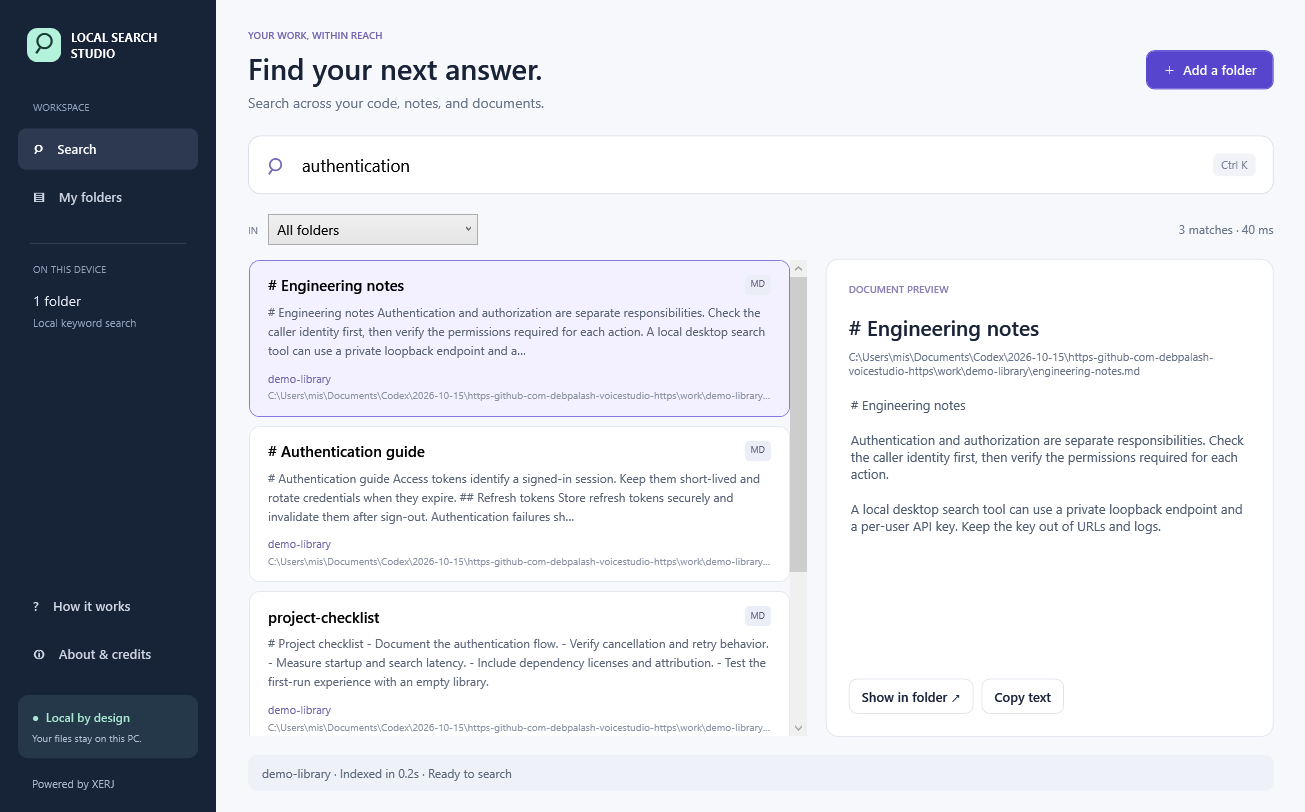
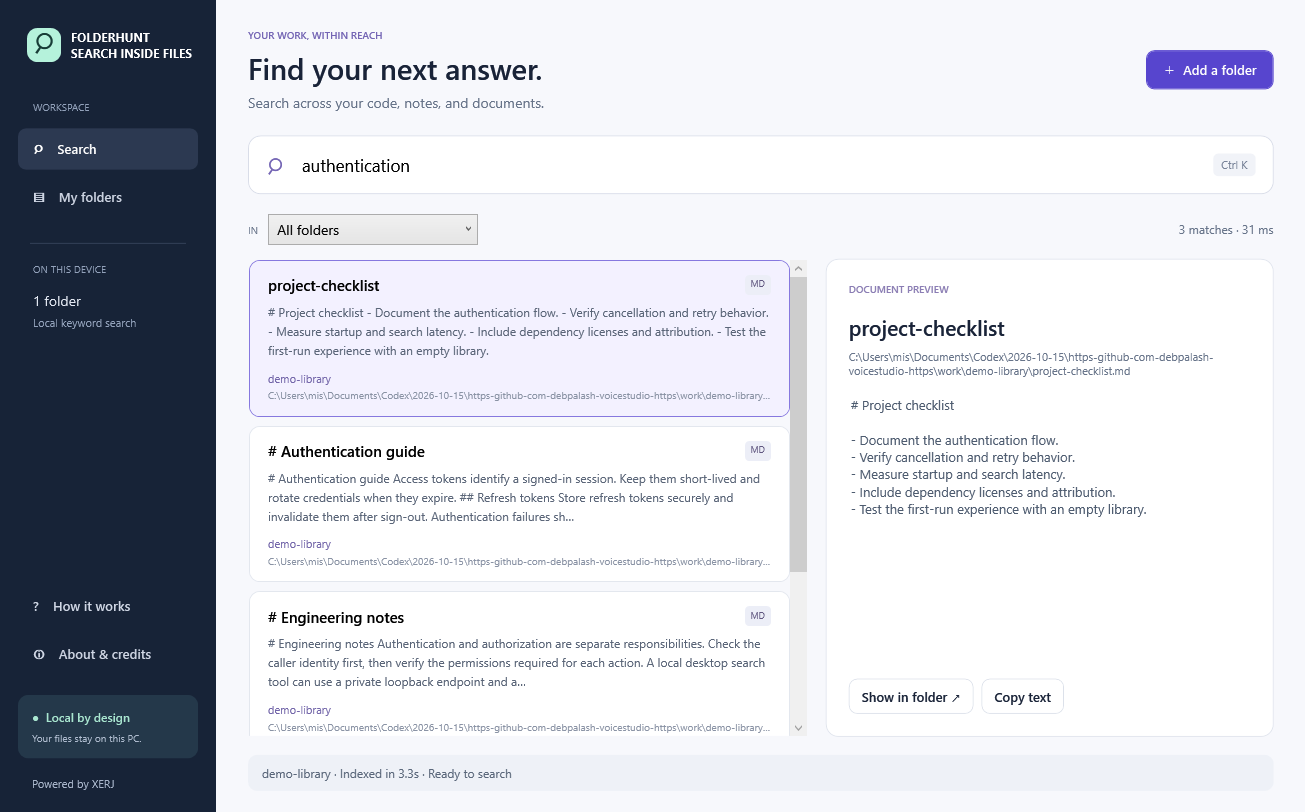
Rename the Windows app to FolderHunt
Use FolderHunt: Search Inside Files as the Store and Windows display name. Update UI branding, privacy text, listing copy and screenshot; bump the package to 1.0.1.0 while preserving identity and data paths. Verified Release publish, MakeAppx validation, and a real-app indexing/search smoke check.

diff --git a/desktop/privacy.html b/desktop/privacy.html
@@ -1,11 +1,11 @@
-<!doctype html><html lang="en"><head><meta charset="utf-8"><meta name="viewport" content="width=device-width,initial-scale=1"><title>Local Search Studio — Privacy</title><style>body{font:17px/1.65 system-ui,sans-serif;color:#192338;background:#f7f8fc;max-width:800px;margin:60px auto;padding:0 24px}a{color:#5745ce}h1{line-height:1.2}small{color:#67748a}</style></head><body>
-<p>LOCAL SEARCH STUDIO</p><h1>Your files stay on your PC.</h1><p><small>Privacy policy · Effective 15 October 2026 · Version 1.0.0</small></p>
-<p>Local Search Studio is an independent Windows desktop search application published by Adiityaaa7 and powered by the open-source XERJ engine.</p>
+<!doctype html><html lang="en"><head><meta charset="utf-8"><meta name="viewport" content="width=device-width,initial-scale=1"><title>FolderHunt — Privacy</title><style>body{font:17px/1.65 system-ui,sans-serif;color:#192338;background:#f7f8fc;max-width:800px;margin:60px auto;padding:0 24px}a{color:#5745ce}h1{line-height:1.2}small{color:#67748a}</style></head><body>
+<p>FOLDERHUNT</p><h1>Your files stay on your PC.</h1><p><small>Privacy policy · Updated 21 October 2026 · Version 1.0.1</small></p>
+<p>FolderHunt (previously Local Search Studio) is an independent Windows desktop search application published by Adiityaaa7 and powered by the open-source XERJ engine.</p>
 <h2>What the app processes</h2><p>When you choose a folder, the app reads supported files within it to create searchable indexes. The indexes may contain file paths, metadata, and copies of extracted text. Search queries and previews are processed on your computer. Indexes, folder settings, indexing journals, and a local engine authentication key are stored in the app-data location shown in How it works. A small query cache is held in memory for the current session.</p>
 <h2>No collection by the publisher</h2><p>The app does not send your files, queries, or indexes to the publisher. This edition contains no publisher analytics, advertising SDK, account sign-in, cloud reranking, or neural-model download. It communicates with its bundled engine through authenticated connections bound to 127.0.0.1 on your PC.</p>
 <h2>Your choices</h2><p>You choose which folders to index and can stop indexing. Refresh updates indexed copies after you edit or delete source files. Closing the app stops its engine and clears the in-memory query cache. To remove all saved indexes and settings, close the app and remove the app-data directory shown in How it works. This does not delete your original files. Uninstalling a portable copy alone may leave its app-data directory behind.</p>
 <h2>Local security</h2><p>App data is restricted to your Windows user account. The app does not encrypt its indexes. Anyone with access to your Windows account, administrator access, backups, or the storage device may be able to access the data. Index only content you intend to make searchable on this device.</p>
 <h2>Other services</h2><p>Microsoft Store handles application distribution and updates under Microsoft's privacy policy. Opening support or source links uses your browser and the destination site's policies. If you voluntarily post a support issue, GitHub processes the information you provide; do not include private documents or credentials in public issues.</p>
-<h2>Changes and contact</h2><p>Policy changes will be published with the Store listing. For support and privacy questions, contact the publisher through <a href="https://github.com/Adiityaa7">the publisher's GitHub profile</a>.</p>
-<p>Powered by <a href="https://github.com/xerj-org/xerj">XERJ</a>. Local Search Studio is not affiliated with or endorsed by the XERJ project.</p>
+<h2>Changes and contact</h2><p>Policy changes will be published with the Store listing. For support and privacy questions, contact the publisher through <a href="https://github.com/Adiityaa7/local-search-studio/issues">the app's support page</a>.</p>
+<p>Powered by <a href="https://github.com/xerj-org/xerj">XERJ</a>. FolderHunt is not affiliated with or endorsed by the XERJ project.</p>
 </body></html>

diff --git a/privacy.html b/privacy.html
@@ -1,11 +1,11 @@
-<!doctype html><html lang="en"><head><meta charset="utf-8"><meta name="viewport" content="width=device-width,initial-scale=1"><title>Local Search Studio — Privacy</title><style>body{font:17px/1.65 system-ui,sans-serif;color:#192338;background:#f7f8fc;max-width:800px;margin:60px auto;padding:0 24px}a{color:#5745ce}h1{line-height:1.2}small{color:#67748a}</style></head><body>
-<p>LOCAL SEARCH STUDIO</p><h1>Your files stay on your PC.</h1><p><small>Privacy policy · Effective 15 October 2026 · Version 1.0.0</small></p>
-<p>Local Search Studio is an independent Windows desktop search application published by Adiityaaa7 and powered by the open-source XERJ engine.</p>
+<!doctype html><html lang="en"><head><meta charset="utf-8"><meta name="viewport" content="width=device-width,initial-scale=1"><title>FolderHunt — Privacy</title><style>body{font:17px/1.65 system-ui,sans-serif;color:#192338;background:#f7f8fc;max-width:800px;margin:60px auto;padding:0 24px}a{color:#5745ce}h1{line-height:1.2}small{color:#67748a}</style></head><body>
+<p>FOLDERHUNT</p><h1>Your files stay on your PC.</h1><p><small>Privacy policy · Updated 21 October 2026 · Version 1.0.1</small></p>
+<p>FolderHunt (previously Local Search Studio) is an independent Windows desktop search application published by Adiityaaa7 and powered by the open-source XERJ engine.</p>
 <h2>What the app processes</h2><p>When you choose a folder, the app reads supported files within it to create searchable indexes. The indexes may contain file paths, metadata, and copies of extracted text. Search queries and previews are processed on your computer. Indexes, folder settings, indexing journals, and a local engine authentication key are stored in the app-data location shown in How it works. A small query cache is held in memory for the current session.</p>
 <h2>No collection by the publisher</h2><p>The app does not send your files, queries, or indexes to the publisher. This edition contains no publisher analytics, advertising SDK, account sign-in, cloud reranking, or neural-model download. It communicates with its bundled engine through authenticated connections bound to 127.0.0.1 on your PC.</p>
 <h2>Your choices</h2><p>You choose which folders to index and can stop indexing. Refresh updates indexed copies after you edit or delete source files. Closing the app stops its engine and clears the in-memory query cache. To remove all saved indexes and settings, close the app and remove the app-data directory shown in How it works. This does not delete your original files. Uninstalling a portable copy alone may leave its app-data directory behind.</p>
 <h2>Local security</h2><p>App data is restricted to your Windows user account. The app does not encrypt its indexes. Anyone with access to your Windows account, administrator access, backups, or the storage device may be able to access the data. Index only content you intend to make searchable on this device.</p>
 <h2>Other services</h2><p>Microsoft Store handles application distribution and updates under Microsoft's privacy policy. Opening support or source links uses your browser and the destination site's policies. If you voluntarily post a support issue, GitHub processes the information you provide; do not include private documents or credentials in public issues.</p>
-<h2>Changes and contact</h2><p>Policy changes will be published with the Store listing. For support and privacy questions, contact the publisher through <a href="https://github.com/Adiityaa7">the publisher's GitHub profile</a>.</p>
-<p>Powered by <a href="https://github.com/xerj-org/xerj">XERJ</a>. Local Search Studio is not affiliated with or endorsed by the XERJ project.</p>
+<h2>Changes and contact</h2><p>Policy changes will be published with the Store listing. For support and privacy questions, contact the publisher through <a href="https://github.com/Adiityaa7/local-search-studio/issues">the app's support page</a>.</p>
+<p>Powered by <a href="https://github.com/xerj-org/xerj">XERJ</a>. FolderHunt is not affiliated with or endorsed by the XERJ project.</p>
 </body></html>

diff --git a/desktop/LocalSearchStudio/MainWindow.xaml b/desktop/LocalSearchStudio/MainWindow.xaml
@@ -1,10 +1,10 @@
-<Window x:Class="LocalSearchStudio.MainWindow" xmlns="http://schemas.microsoft.com/winfx/2006/xaml/presentation" xmlns:x="http://schemas.microsoft.com/winfx/2006/xaml" Title="Local Search Studio" Width="1320" Height="850" MinWidth="1040" MinHeight="680" WindowStartupLocation="CenterScreen" Background="#F7F8FC" FontFamily="Segoe UI" FontSize="14" Loaded="WindowLoaded" Closing="WindowClosing" PreviewKeyDown="WindowKeyDown" AllowDrop="True" Drop="FolderDrop">
+<Window x:Class="LocalSearchStudio.MainWindow" xmlns="http://schemas.microsoft.com/winfx/2006/xaml/presentation" xmlns:x="http://schemas.microsoft.com/winfx/2006/xaml" Title="FolderHunt" Width="1320" Height="850" MinWidth="1040" MinHeight="680" WindowStartupLocation="CenterScreen" Background="#F7F8FC" FontFamily="Segoe UI" FontSize="14" Loaded="WindowLoaded" Closing="WindowClosing" PreviewKeyDown="WindowKeyDown" AllowDrop="True" Drop="FolderDrop">
  <Grid Background="#F7F8FC" TextElement.Foreground="#192338">
   <Grid.ColumnDefinitions><ColumnDefinition Width="216"/><ColumnDefinition Width="*"/></Grid.ColumnDefinitions>
   <Border Background="#172337">
    <DockPanel Margin="18,28,18,22">
     <StackPanel DockPanel.Dock="Top">
-     <StackPanel Orientation="Horizontal" Margin="9,0,0,30"><Border Background="#B5F2DB" Width="34" Height="34" CornerRadius="10"><TextBlock Text="⌕" FontSize="30" Foreground="#173C36" HorizontalAlignment="Center" Margin="0,-6,0,0"/></Border><TextBlock Text="LOCAL SEARCH&#10;STUDIO" FontWeight="Bold" FontSize="12" Foreground="White" Margin="10,0,0,0" VerticalAlignment="Center"/></StackPanel>
+     <StackPanel Orientation="Horizontal" Margin="9,0,0,30"><Border Background="#B5F2DB" Width="34" Height="34" CornerRadius="10"><TextBlock Text="⌕" FontSize="30" Foreground="#173C36" HorizontalAlignment="Center" Margin="0,-6,0,0"/></Border><TextBlock Text="FOLDERHUNT&#10;SEARCH INSIDE FILES" FontWeight="Bold" FontSize="12" Foreground="White" Margin="10,0,0,0" VerticalAlignment="Center"/></StackPanel>
      <TextBlock Text="WORKSPACE" FontSize="10" Foreground="#92A1BA" Margin="15,8,0,12"/>
      <Button x:Name="SearchNav" Content="⌕    Search" Style="{StaticResource Nav}" Background="#2C3951" Foreground="White" Click="ShowSearch"/>
      <Button x:Name="LibraryNav" Content="▤    My folders" Style="{StaticResource Nav}" Click="ShowLibraries"/>

diff --git a/desktop/LocalSearchStudio/StudioCore.cs b/desktop/LocalSearchStudio/StudioCore.cs
@@ -1,4 +1,4 @@
-// Local Search Studio desktop integration, added 2026-10-15. Apache-2.0.
+// FolderHunt desktop integration, added 2026-10-15. Apache-2.0.
 // XERJ engine remains unmodified; attribution and license are in ../notices.
 using System.Diagnostics;
 using System.IO;
@@ -113,7 +113,7 @@ public sealed class EngineService : IAsyncDisposable
     {
         if (Running) return;
         if(shutdown.IsCancellationRequested) { shutdown.Dispose(); shutdown = new(); }
-        if (!File.Exists(executable)) throw new FileNotFoundException("The bundled XERJ engine is missing. Reinstall Local Search Studio.");
+        if (!File.Exists(executable)) throw new FileNotFoundException("The bundled XERJ engine is missing. Reinstall FolderHunt.");
         if (!System.Runtime.Intrinsics.X86.Avx2.IsSupported) throw new PlatformNotSupportedException("This XERJ build requires a 64-bit Intel or AMD processor with AVX2 support (typically 2013 or newer).");
         Directory.CreateDirectory(root);
         // User-only state, including engine API key; never placed in a URL or command line.
@@ -122,7 +122,7 @@ public sealed class EngineService : IAsyncDisposable
         security.AddAccessRule(new FileSystemAccessRule(WindowsIdentity.GetCurrent().User!, FileSystemRights.FullControl, InheritanceFlags.ContainerInherit | InheritanceFlags.ObjectInherit, PropagationFlags.None, AccessControlType.Allow));
         new DirectoryInfo(root).SetAccessControl(security);
         try { ownership = new FileStream(System.IO.Path.Combine(root, "engine.lock"), FileMode.OpenOrCreate, FileAccess.ReadWrite, FileShare.None); }
-        catch (IOException) { throw new IOException("Local Search Studio is already open. Switch to its existing window."); }
+        catch (IOException) { throw new IOException("FolderHunt is already open. Switch to its existing window."); }
         try
         {
             // XERJ's incremental journal binds to its endpoint. Keep assigned ports
@@ -138,7 +138,7 @@ public sealed class EngineService : IAsyncDisposable
                 selected = ports.Select(p => ((IPEndPoint)p.LocalEndpoint).Port).ToArray();
                 if(saved is null) File.WriteAllText(portFile,JsonSerializer.Serialize(selected));
             }
-            catch(SocketException ex) { throw new IOException("Another program is using this app’s saved local port. Close other copies of Local Search Studio, then retry.",ex); }
+            catch(SocketException ex) { throw new IOException("Another program is using this app’s saved local port. Close other copies of FolderHunt, then retry.",ex); }
             finally { foreach(var listener in ports)listener.Stop(); }
             var data = System.IO.Path.Combine(root, "data").Replace('\\', '/');
             var config = $"[server]\nbind_address = \"127.0.0.1\"\nes_compat_port = {selected[0]}\nrest_port = {selected[1]}\ngrpc_port = {selected[2]}\ndata_dir = {JsonSerializer.Serialize(data)}\n[auth]\nenabled = true\n[tls]\nenabled = false\n[rerank]\nenabled = false\n";

diff --git a/desktop/LocalSearchStudio/MainWindow.xaml.cs b/desktop/LocalSearchStudio/MainWindow.xaml.cs
@@ -215,7 +215,7 @@ public partial class MainWindow : Window
     private void ShowAbout(object sender, RoutedEventArgs e)
     {
         var dir = System.IO.Path.Combine(AppContext.BaseDirectory, "notices");
-        ShowText("About & credits", "Local Search Studio 1.0.0\nIndependent desktop edition powered by XERJ 1.0.0-rc.95.\nNot affiliated with or endorsed by the XERJ project.\n\nXERJ\nCopyright 2026 The XERJ Authors\nThis product includes software developed by the XERJ project (https://xerj.org).\nSource: https://github.com/xerj-org/xerj\nEngine release: v1.0.0-rc.95 (unmodified).\n\nDesktop additions: native Windows interface, authenticated local-engine management, folder library, incremental keyword indexing, cancellable search, bounded previews, and session query caching. Added 15 October 2026.\n\nLicensed under Apache License 2.0.\nThe full license, upstream NOTICE, and dependency notices are included below and in the installed notices folder.\n\n" + (File.Exists(System.IO.Path.Combine(dir,"XERJ-LICENSE.txt")) ? File.ReadAllText(System.IO.Path.Combine(dir,"XERJ-LICENSE.txt")) : "License file missing"), dir);
+        ShowText("About & credits", "FolderHunt 1.0.1\nIndependent desktop edition powered by XERJ 1.0.0-rc.95.\nNot affiliated with or endorsed by the XERJ project.\n\nXERJ\nCopyright 2026 The XERJ Authors\nThis product includes software developed by the XERJ project (https://xerj.org).\nSource: https://github.com/xerj-org/xerj\nEngine release: v1.0.0-rc.95 (unmodified).\n\nDesktop additions: native Windows interface, authenticated local-engine management, folder library, incremental keyword indexing, cancellable search, bounded previews, and session query caching. Added 15 October 2026.\n\nLicensed under Apache License 2.0.\nThe full license, upstream NOTICE, and dependency notices are included below and in the installed notices folder.\n\n" + (File.Exists(System.IO.Path.Combine(dir,"XERJ-LICENSE.txt")) ? File.ReadAllText(System.IO.Path.Combine(dir,"XERJ-LICENSE.txt")) : "License file missing"), dir);
     }
     private void ShowText(string title, string text, string? licensesFolder = null)
     {

diff --git a/desktop/LocalSearchStudio/App.xaml.cs b/desktop/LocalSearchStudio/App.xaml.cs
@@ -12,8 +12,8 @@ public partial class App : Application
         if(test >= 0 && test + 1 < e.Args.Length) root = System.IO.Path.GetFullPath(e.Args[test + 1]);
         var name = "Local\\LocalSearchStudio-" + Convert.ToHexString(System.Security.Cryptography.SHA256.HashData(System.Text.Encoding.UTF8.GetBytes(root)))[..20];
         instance = new Mutex(true, name, out var created);
-        if(!created) { MessageBox.Show("Local Search Studio is already open. Switch to its existing window.", "Local Search Studio"); Shutdown(); return; }
-        DispatcherUnhandledException += (_, args) => { MessageBox.Show(args.Exception.Message, "Local Search Studio", MessageBoxButton.OK, MessageBoxImage.Error); args.Handled = true; };
+        if(!created) { MessageBox.Show("FolderHunt is already open. Switch to its existing window.", "FolderHunt"); Shutdown(); return; }
+        DispatcherUnhandledException += (_, args) => { MessageBox.Show(args.Exception.Message, "FolderHunt", MessageBoxButton.OK, MessageBoxImage.Error); args.Handled = true; };
         var window = new MainWindow(root, e.Args);
         MainWindow = window; window.Show();
     }
